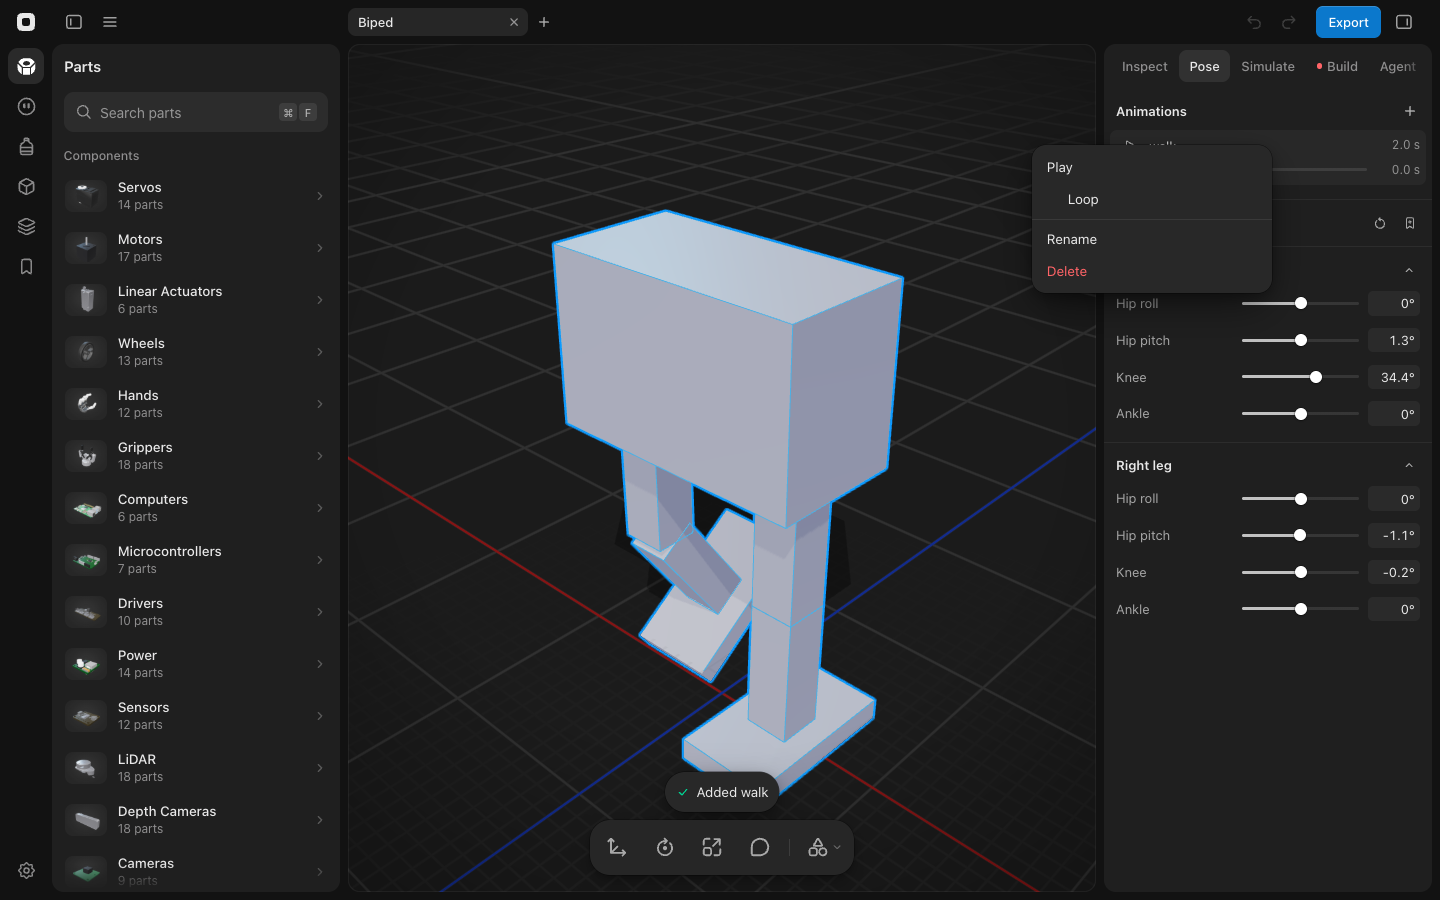
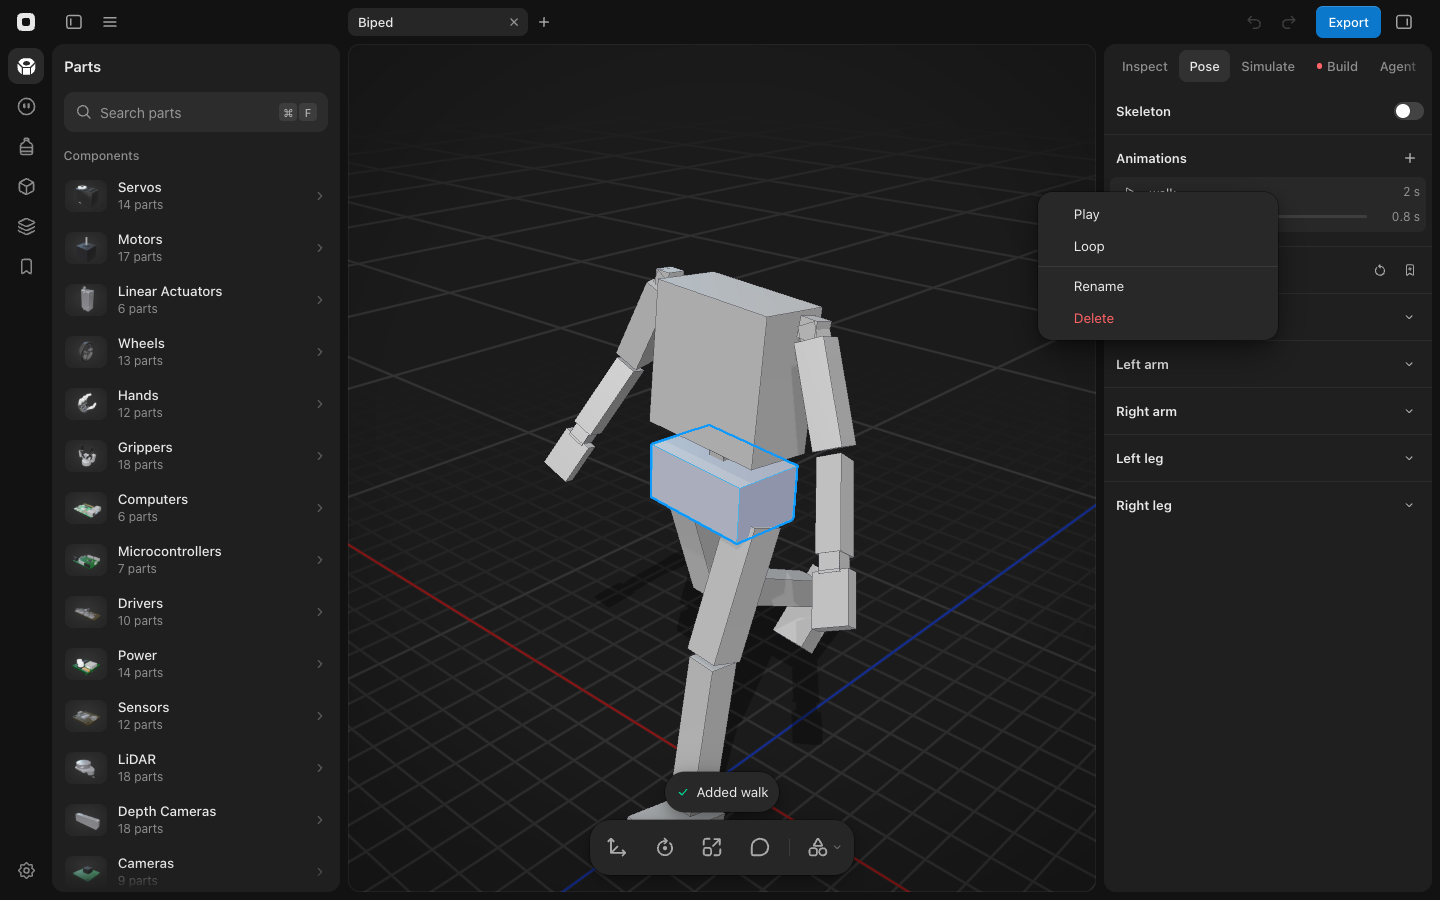
Show every duration in one format, through one helper
The app wrote durations at least seven ways: 1m 5s for the agent's
elapsed counter, 1.5 min and 1.25 s in Routine step labels, 12 s next
to 2.0 s in Animations, and a print-time formatter kept twice. Every
duration now goes through src/utils/duration.ts. clockTime keeps one
decimal for moments and running clocks. duration gives tenths of a
second under a minute, then the two largest units with the second
padded (1 min 05 s, 1 h 05 min). Estimates round to the minute.
Copy §3b-15 records the rule.

ResultsSection's "N generated" failed the Make glossary lint once the
file changed, so the try row and its delete confirmation now count
variations, the word the Multiply help article already uses. The help
articles that quoted the old text (Try a Case, Get a robot ready to
build, Multiply, Animate a robot) are updated, with their screenshots
recaptured where they showed the old format.

diff --git a/src/routines/explainGraph.ts b/src/routines/explainGraph.ts
@@ -1,13 +1,10 @@
+import { duration } from '../utils/duration';
 import { findNode } from './nodes';
 import type { Condition, Reaction, Routine, Step } from './schema';
 
 const quote = (text: string) => `“${text}”`;
 
-function duration(ms: number): string {
-  if (ms >= 60_000) return `${Math.round(ms / 60_000)} min`;
-
-  return `${Math.round(ms / 100) / 10} s`;
-}
+const span = (ms: number) => duration(ms / 1000);
 
 export function describeCondition(cond: Condition): string {
   if ('all' in cond) return cond.all.map(describeCondition).join(' and ');
@@ -33,7 +30,7 @@ function describeSteps(steps: Step[]): string {
 
 function failure(step: Extract<Step, { timeoutMs: number }>): string {
   const parts = [
-    step.onTimeout.length ? `if it takes over ${duration(step.timeoutMs)}, ${describeSteps(step.onTimeout)}` : '',
+    step.onTimeout.length ? `if it takes over ${span(step.timeoutMs)}, ${describeSteps(step.onTimeout)}` : '',
     step.onFail.length ? `if it fails, ${describeSteps(step.onFail)}` : '',
   ].filter(Boolean);
 
@@ -61,7 +58,7 @@ function describeStep(step: Step): string {
     case 'ask':
       return `ask ${quote(step.prompt)} (${step.answers.join(' or ')})${failure(step)}`;
     case 'wait':
-      return `wait ${step.until ? `until ${describeCondition(step.until)}` : duration(step.ms ?? 0)}`;
+      return `wait ${step.until ? `until ${describeCondition(step.until)}` : span(step.ms ?? 0)}`;
     case 'if':
       return [
         `if ${describeCondition(step.test)}, ${describeSteps(step.then) || 'carry on'}`,
@@ -76,7 +73,7 @@ function describeStep(step: Step): string {
 
 function describeReaction(r: Reaction): string {
   const body = r.body === 'stopFirst' ? 'stop first, then ' : '';
-  const rest = r.cooldownMs > 0 ? ` Waits ${duration(r.cooldownMs)} before doing it again.` : '';
+  const rest = r.cooldownMs > 0 ? ` Waits ${span(r.cooldownMs)} before doing it again.` : '';
 
   return `When ${describeCondition(r.when)}: ${body}${describeSteps(r.steps)}.${rest}`;
 }
@@ -86,7 +83,7 @@ export function describeRoutine(routine: Routine): string[] {
   const ending = base.onTimeout.length ? `, then ${describeSteps(base.onTimeout)}` : '';
 
   return [
-    `Keeps doing ${base.skill} for up to ${duration(base.timeoutMs)}${ending}, then stops with ${routine.safeStop}.`,
+    `Keeps doing ${base.skill} for up to ${span(base.timeoutMs)}${ending}, then stops with ${routine.safeStop}.`,
     ...routine.watchers.map((w) => `Watches for ${w.id} ${w.rateHz} times a second.`),
     ...routine.reactions.map(describeReaction),
   ];

diff --git a/src/routines/explain.ts b/src/routines/explain.ts
@@ -1,3 +1,4 @@
+import { clockTime, duration } from '../utils/duration';
 import { reachableFrom } from './generatePaths';
 import { findNode } from './nodes';
 import type { Plan, PlanOp } from './planTypes';
@@ -6,7 +7,7 @@ import type { Condition } from './schema';
 
 export { describeRoutine } from './explainGraph';
 
-const seconds = (ms: number) => `${(ms / 1000).toFixed(1)} s`;
+const at = (ms: number) => clockTime(ms / 1000);
 const two = (n: number) => n.toFixed(2);
 
 function factLabel(plan: Plan, fact: string): string {
@@ -64,7 +65,7 @@ function failureCause(plan: Plan, e: TraceEvent, target: number): string | null 
   const label = op ? nodeLabel(op) : (e.node ?? '');
 
   if (e.kind === 'opTimeout' && op && leads(plan, op.onTimeout, target)) {
-    return `${label} ran out of time after ${seconds(op.timeoutMs)}`;
+    return `${label} ran out of time after ${duration(op.timeoutMs / 1000)}`;
   }
 
   if (e.kind === 'opFail' && op && leads(plan, op.onFail, target)) return `${label} failed`;
@@ -119,15 +120,15 @@ export function causeOf(plan: Plan, trace: TraceEvent[], index: number): string 
 export function explainEvent(plan: Plan, trace: TraceEvent[], index: number): string | null {
   const e = trace[index];
 
-  if (e.kind === 'said') return `Said ${e.text} at ${seconds(e.t)} because ${causeOf(plan, trace, index)}`;
+  if (e.kind === 'said') return `Said ${e.text} at ${at(e.t)} because ${causeOf(plan, trace, index)}`;
 
-  if (e.kind === 'fired') return `Started ${e.reaction} at ${seconds(e.t)} because ${firedCause(plan, trace, index)}`;
+  if (e.kind === 'fired') return `Started ${e.reaction} at ${at(e.t)} because ${firedCause(plan, trace, index)}`;
 
-  if (e.kind === 'preempted') return `Stopped ${e.reaction} at ${seconds(e.t)} for ${e.by}, which comes first`;
+  if (e.kind === 'preempted') return `Stopped ${e.reaction} at ${at(e.t)} for ${e.by}, which comes first`;
 
-  if (e.kind === 'safeStop') return `Stopped safely at ${seconds(e.t)} because the ${e.why}`;
+  if (e.kind === 'safeStop') return `Stopped safely at ${at(e.t)} because the ${e.why}`;
 
-  if (e.kind === 'tripped') return `Control stopped the robot at ${seconds(e.t)} because the coordinator went quiet`;
+  if (e.kind === 'tripped') return `Control stopped the robot at ${at(e.t)} because the coordinator went quiet`;
 
   return null;
 }

diff --git a/src/components/simulate/ResultsSection.tsx b/src/components/simulate/ResultsSection.tsx
@@ -24,10 +24,11 @@ import { ExploreRows } from './ExploreRows';
 import { FAULT_LABEL } from './faultMenu';
 import { FromTries } from './FromTries';
 import type { ShareRobot } from '../../workspace/useShareRobot';
-import { fmtTime } from './format';
+import { clockTime } from '../../utils/duration';
 import { ProgressBar } from './ProgressBar';
 import { hasRunResult, RunResult, type OnFault } from './RunResult';
 import { useFilmstrip } from './useFilmstrip';
+import { plural } from '../../../electron/plural.mjs';
 
 interface TryRowProps {
   record: TryRecord;
@@ -47,7 +48,7 @@ const Faults: React.FC<{ record: TryRecord; rig: Rig }> = ({ record, rig }) =>
   record.manifest.faults?.map((f) => (
     <Tooltip
       key={`${f.joint}-${f.at}`}
-      label={`${prettyJointName(rig.byId.get(f.joint)?.name ?? f.joint)} at ${fmtTime(f.at)}`}
+      label={`${prettyJointName(rig.byId.get(f.joint)?.name ?? f.joint)} at ${clockTime(f.at)}`}
     >
       <span data-testid="try-fault">
         <Badge variant="amber">{FAULT_LABEL[f.kind]}</Badge>
@@ -63,9 +64,9 @@ const TryRow: React.FC<TryRowProps> = (props) => {
     <div className="py-1.5 flex flex-col gap-1.5" onContextMenu={onMenu} data-testid="try-row">
       <div className="flex items-center gap-2 text-[13px]">
         <span className={record.passed ? 'text-white/85' : 'text-[#f87171]'}>{outcome(record)}</span>
-        <span className="text-white/50 tabular">{fmtTime(record.seconds)}</span>
+        <span className="text-white/50 tabular">{clockTime(record.seconds)}</span>
         <span className="flex-1 text-white/50 tabular" data-testid="try-generated">
-          {generated > 0 && `${generated} generated`}
+          {generated > 0 && plural(generated, 'variation')}
         </span>
         <Faults record={record} rig={rig} />
         <IconButton icon={<RunIcon className="w-4 h-4" />} title="Replay" size="xs" onClick={onReplay} />

diff --git a/src/print/sliceText.ts b/src/print/sliceText.ts
@@ -1,18 +1,13 @@
 import type { PrintReport } from '../utils/printReport';
 import type { SliceRecord } from './printBridge';
+import { duration } from '../utils/duration';
 import { plural } from '../../electron/plural.mjs';
-
-const minutes = (s: number) => {
-  const m = Math.round(s / 60);
-
-  return m < 60 ? `${m} min` : `${Math.floor(m / 60)} h ${String(m % 60).padStart(2, '0')} min`;
-};
 
 export function sliceText(report: PrintReport, record: SliceRecord): string {
   const byNumber = new Map(report.plan.plates.map((p) => [p.number, p]));
   const total = record.plates.reduce((t, p) => ({ s: t.s + p.seconds, g: t.g + p.grams }), { s: 0, g: 0 });
   const lines = [
-    `Sliced ${plural(record.plates.length, 'plate')} for a ${report.printer.model.name} in ${record.slicer.name} ${record.slicer.version ?? ''}: ${minutes(total.s)} of printing, ${Math.round(total.g)} g of filament.`.replace(
+    `Sliced ${plural(record.plates.length, 'plate')} for a ${report.printer.model.name} in ${record.slicer.name} ${record.slicer.version ?? ''}: ${duration(total.s, 'min')} of printing, ${Math.round(total.g)} g of filament.`.replace(
       ' :',
       ':',
     ),
@@ -24,7 +19,7 @@ export function sliceText(report: PrintReport, record: SliceRecord): string {
     const notes = [p.support && 'needs supports', ...p.warnings].filter(Boolean).join('; ');
 
     lines.push(
-      `- Plate ${p.number} (${p.material}, ${minutes(p.seconds)}, ${Math.round(p.grams)} g): ${names}${notes ? `. ${notes}` : ''}`,
+      `- Plate ${p.number} (${p.material}, ${duration(p.seconds, 'min')}, ${Math.round(p.grams)} g): ${names}${notes ? `. ${notes}` : ''}`,
     );
   }
 

diff --git a/src/components/simulate/RunResult.tsx b/src/components/simulate/RunResult.tsx
@@ -4,7 +4,8 @@ import type { FaultKind } from '../../sim/faults';
 import type { Simulation } from '../../sim/useSimulation';
 import { prettyJointName, type Rig } from '../../utils/kinematics';
 import { FAULT_LABEL, faultSubmenu } from './faultMenu';
-import { fmtTime, pct } from './format';
+import { clockTime } from '../../utils/duration';
+import { pct } from './format';
 
 type SimStats = NonNullable<Simulation['stats']>;
 
@@ -22,7 +23,7 @@ const RobotResult: React.FC<{ result: SimStats['robots'][number]; model: SimMode
       <div className="flex items-baseline justify-between gap-2 text-[13px]">
         <span className="text-white/85 truncate">{robot.name}</span>
         <span className={r.fellAt !== null ? 'text-[#f87171]' : 'text-white/70'}>
-          {r.fellAt !== null ? `Fell at ${fmtTime(r.fellAt)}` : 'Standing'}
+          {r.fellAt !== null ? `Fell at ${clockTime(r.fellAt)}` : 'Standing'}
         </span>
       </div>
       <MetaLine
@@ -68,7 +69,7 @@ const PeakTorque: React.FC<{
             <span className="flex-1 min-w-0 truncate text-[13px] text-white/80">{name}</span>
             {j.fault && <Badge variant="amber">{FAULT_LABEL[j.fault]}</Badge>}
             {j.saturatedS > 0.05 && (
-              <span className="text-[12px] text-white/50 tabular">{fmtTime(j.saturatedS)} at limit</span>
+              <span className="text-[12px] text-white/50 tabular">{clockTime(j.saturatedS)} at limit</span>
             )}
             <span
               className={`w-10 text-right text-[13px] tabular ${j.peak >= 0.98 ? 'text-[#f87171]' : 'text-white/70'}`}

diff --git a/src/components/agent/toolRules.ts b/src/components/agent/toolRules.ts
@@ -19,6 +19,7 @@ import {
   WebIcon,
 } from '../../design-system';
 import { plural } from '../../../electron/plural.mjs';
+import { duration } from '../../utils/duration';
 import { SIM_RULES } from './simToolRules';
 import { plainRule, type ToolIcon, type ToolRule } from './toolRule';
 
@@ -316,7 +317,7 @@ const ROBOT_RULES: ToolRule[] = [
     keys: ['simulate'],
     icon: RunIcon,
     label: ({ input, verb }) => ({
-      title: `${verb('Simulating', 'Simulated')} ${Number(input.seconds ?? 5)} s`,
+      title: `${verb('Simulating', 'Simulated')} ${duration(Number(input.seconds ?? 5))}`,
       detail: controllerName(String(input.controller ?? 'hold')),
     }),
   },
@@ -332,7 +333,7 @@ const ROBOT_RULES: ToolRule[] = [
     keys: ['start_drive'],
     icon: RunIcon,
     label: ({ input, verb }) => ({
-      title: `${verb('Driving', 'Drove')} ${Number(input.seconds ?? 6)} s`,
+      title: `${verb('Driving', 'Drove')} ${duration(Number(input.seconds ?? 6))}`,
       detail: optional(input.live ? 'On the canvas' : ''),
     }),
   },
@@ -340,7 +341,7 @@ const ROBOT_RULES: ToolRule[] = [
     keys: ['operate'],
     icon: RunIcon,
     label: ({ input, verb }) => ({
-      title: `${verb('Operating', 'Operated')} ${Number(input.seconds ?? 1)} s`,
+      title: `${verb('Operating', 'Operated')} ${duration(Number(input.seconds ?? 1))}`,
       detail: optional(input.restart ? 'From the start' : ''),
     }),
   },

diff --git a/src/components/pose/AnimationsSection.tsx b/src/components/pose/AnimationsSection.tsx
@@ -14,11 +14,10 @@ import {
   confirmAction,
 } from '../../design-system';
 import type { RobotAnimation } from '../../types/robotics';
+import { clockTime, duration } from '../../utils/duration';
 import type { Posing } from '../../utils/usePosing';
 
 export type OpenMenu = (e: React.MouseEvent, items: ContextMenuEntry[]) => void;
-
-const fmtTime = (t: number) => `${t.toFixed(t < 10 ? 1 : 0)} s`;
 
 interface AddAnimationProps {
   canWalk: boolean;
@@ -135,7 +134,7 @@ const AnimationRow: React.FC<{
             {a.name}
           </button>
         )}
-        <span className="text-[12px] text-white/50 tabular shrink-0">{fmtTime(a.duration)}</span>
+        <span className="text-[12px] text-white/50 tabular shrink-0">{duration(a.duration)}</span>
       </div>
       {isCurrent && (
         <div className="flex items-center gap-2.5 pl-1">
@@ -150,7 +149,7 @@ const AnimationRow: React.FC<{
             style={{ '--fill': `${(t / a.duration) * 100}%` } as React.CSSProperties}
             onChange={(e) => posing.scrub(a.id, Number(e.target.value))}
           />
-          <span className="w-[44px] text-right text-[12px] text-white/50 tabular">{fmtTime(t)}</span>
+          <span className="w-[44px] text-right text-[12px] text-white/50 tabular">{clockTime(t)}</span>
         </div>
       )}
     </div>

diff --git a/src/utils/printReport.ts b/src/utils/printReport.ts
@@ -7,6 +7,7 @@ import { PRINT_RULES, printHours, type PrintShape, type Vec3 } from '../three/pr
 import type { PrintMaterial, ProjectSettings, ScenePart } from '../types/robotics';
 import { hashText } from '../guide/guideItems';
 import { filamentGrams, isPrinted, printMaterialOf } from './bom';
+import { duration } from './duration';
 import { jsonHash, numbersHash } from './geometryHash';
 import { plural } from '../../electron/plural.mjs';
 
@@ -250,7 +251,7 @@ export function printReportText(r: PrintReport): string {
     : '';
 
   lines.push(
-    `${plural(r.parts.length, 'printed part')} on a ${r.printer.model.name} (${bedSizeText(bed)}${keepOut}): about ${Math.round(r.totals.grams)} g + ${Math.round(r.totals.supportG)} g support, ${r.totals.hours.toFixed(1)} h, ${plates}. Estimates without a slicer.`,
+    `${plural(r.parts.length, 'printed part')} on a ${r.printer.model.name} (${bedSizeText(bed)}${keepOut}): about ${Math.round(r.totals.grams)} g + ${Math.round(r.totals.supportG)} g support, ${duration(r.totals.hours * 3600, 'min')}, ${plates}. Estimates without a slicer.`,
   );
   lines.push(r.totals.failing ? `Issues on ${plural(r.totals.failing, 'part')}:` : 'Every part fits and prints.');
 

diff --git a/src/utils/engineeringPower.ts b/src/utils/engineeringPower.ts
@@ -1,6 +1,7 @@
 import { ActuatorSpec, BatterySpec, COMPONENT_BY_ID, actuatorOf } from '../data/components';
 import type { RobotJoint, ScenePart } from '../types/robotics';
 import { isLegJoint } from './engineeringBody';
+import { duration } from './duration';
 import { jointLabel } from './engineeringFormat';
 import { plural } from '../../electron/plural.mjs';
 import type { CheckContext, CheckRow } from './engineeringTypes';
@@ -220,7 +221,7 @@ const estimated = (draw: Draw) => (draw.hungriest ? '' : ' (estimate)');
 function batteryDetail(source: PowerSource, draw: Draw): string {
   const runtime = ((0.8 * source.battery.capacityAh) / draw.avg) * 60;
 
-  return `${amps(draw)} from the pack${estimated(draw)}; ${source.name} gives about ${Math.round(runtime)} min. Fuse the pack near ${Math.ceil(draw.peak * 1.4)} A.${hungriestNote(draw)}`;
+  return `${amps(draw)} from the pack${estimated(draw)}; ${source.name} gives about ${duration(runtime * 60, 'min')}. Fuse the pack near ${Math.ceil(draw.peak * 1.4)} A.${hungriestNote(draw)}`;
 }
 
 const tetherDetail = (tetherA: number, draw: Draw) =>

diff --git a/src/utils/engineeringPowerReadings.test.ts b/src/utils/engineeringPowerReadings.test.ts
@@ -286,14 +286,13 @@ describe('Current and runtime from the simulated walk', () => {
     };
   };
   const numbers = (detail: string) => {
-    const [, peak, avg, minutes] = /^About ([\d.]+) A peak and ([\d.]+) A average walking .* about (\d+) min/.exec(
-      detail,
-    )!;
+    const [, peak, avg, hours, minutes] =
+      /^About ([\d.]+) A peak and ([\d.]+) A average walking .* about (?:(\d+) h )?(\d+) min/.exec(detail)!;
 
-    return { peak: Number(peak), avg: Number(avg), minutes: Number(minutes) };
+    return { peak: Number(peak), avg: Number(avg), minutes: Number(hours ?? 0) * 60 + Number(minutes) };
   };
   const ESTIMATE =
-    'About 1.8 A peak and 0.8 A standing from the pack (estimate); Ovonic 2S 2200 mAh 50C LiPo gives about 128 min. Fuse the pack near 3 A.';
+    'About 1.8 A peak and 0.8 A standing from the pack (estimate); Ovonic 2S 2200 mAh 50C LiPo gives about 2 h 08 min. Fuse the pack near 3 A.';
 
   it('reads τ ÷ kt plus idle per servo, and runtime from the pack’s capacity over that', () => {
     const s = scene();

diff --git a/src/utils/duration.test.ts b/src/utils/duration.test.ts
@@ -1,0 +1,29 @@
+import { describe, expect, it } from 'vitest';
+import { clockTime, duration } from './duration';
+
+describe('duration', () => {
+  it('reads seconds to a tenth under a minute', () => {
+    expect(duration(0.5)).toBe('0.5 s');
+    expect(duration(45)).toBe('45 s');
+  });
+
+  it('carries into minutes, then hours, with the smaller unit padded', () => {
+    expect(duration(59.97)).toBe('1 min');
+    expect(duration(65)).toBe('1 min 05 s');
+    expect(duration(3725)).toBe('1 h 02 min');
+  });
+
+  it('rounds estimates to the minute and never to zero', () => {
+    expect(duration(0, 'min')).toBe('1 min');
+    expect(duration(1800, 'min')).toBe('30 min');
+    expect(duration(0.999 * 3600, 'min')).toBe('1 h 00 min');
+    expect(duration(12.07 * 3600, 'min')).toBe('12 h 04 min');
+  });
+});
+
+describe('clockTime', () => {
+  it('keeps one decimal so a running clock holds its width', () => {
+    expect(clockTime(2)).toBe('2.0 s');
+    expect(clockTime(12.34)).toBe('12.3 s');
+  });
+});

diff --git a/src/components/simulate/TryTimeline.tsx b/src/components/simulate/TryTimeline.tsx
@@ -2,7 +2,7 @@ import React from 'react';
 import { CloseIcon, IconButton, PauseIcon, RunIcon, Slider } from '../../design-system';
 import { linkParts, prettyJointName, type Rig } from '../../utils/kinematics';
 import type { TryTimeline as Timeline } from '../../workspace/useTryTimeline';
-import { fmtTime } from './format';
+import { clockTime } from '../../utils/duration';
 import { TimelineLane } from './TimelineLane';
 import { useTimelineKeys } from './useTimelineKeys';
 
@@ -51,11 +51,11 @@ export const TryTimeline: React.FC<TryTimelineProps> = ({ timeline, rig, onSelec
         />
         <Slider
           className="flex-1 min-w-0"
-          label={fmtTime(frame * dt)}
+          label={clockTime(frame * dt)}
           value={frame}
           min={0}
           max={Math.max(frames - 1, 1)}
-          format={() => fmtTime((frames - 1) * dt)}
+          format={() => clockTime((frames - 1) * dt)}
           onChange={(v) => timeline.seek(v)}
         />
         <IconButton
